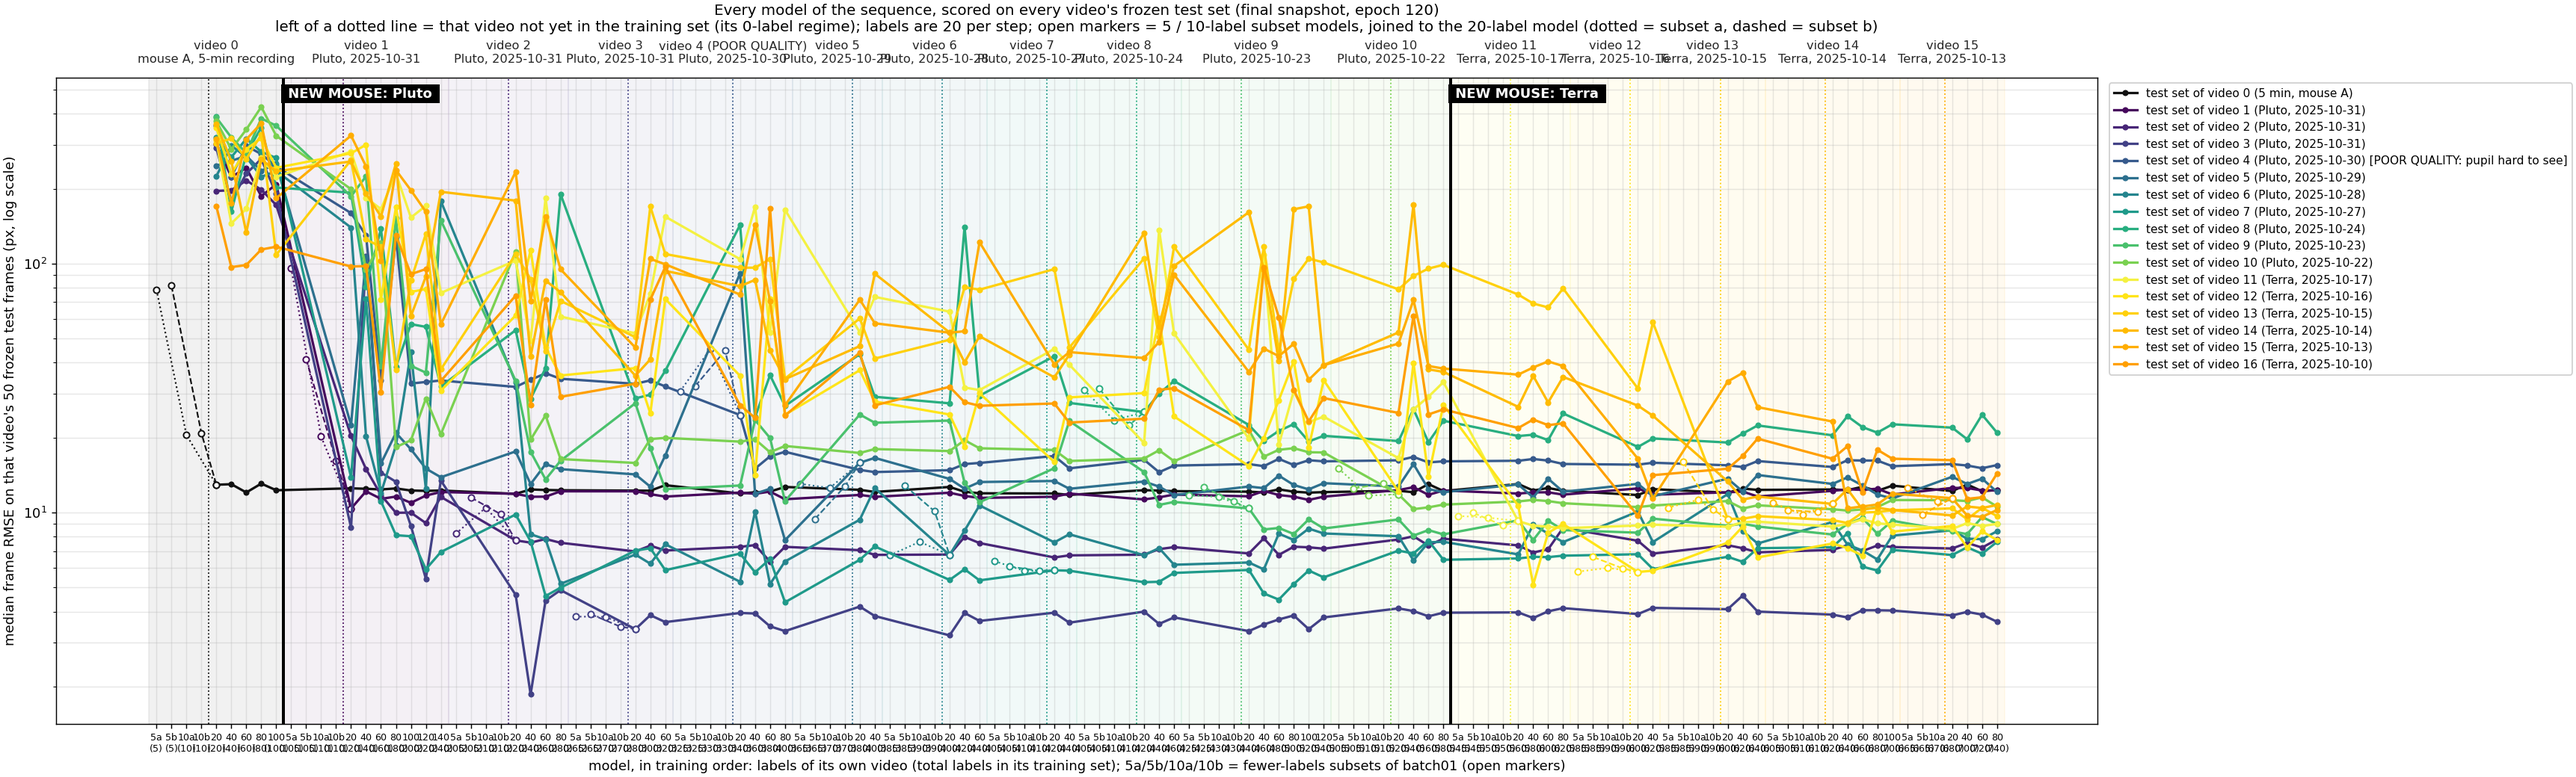
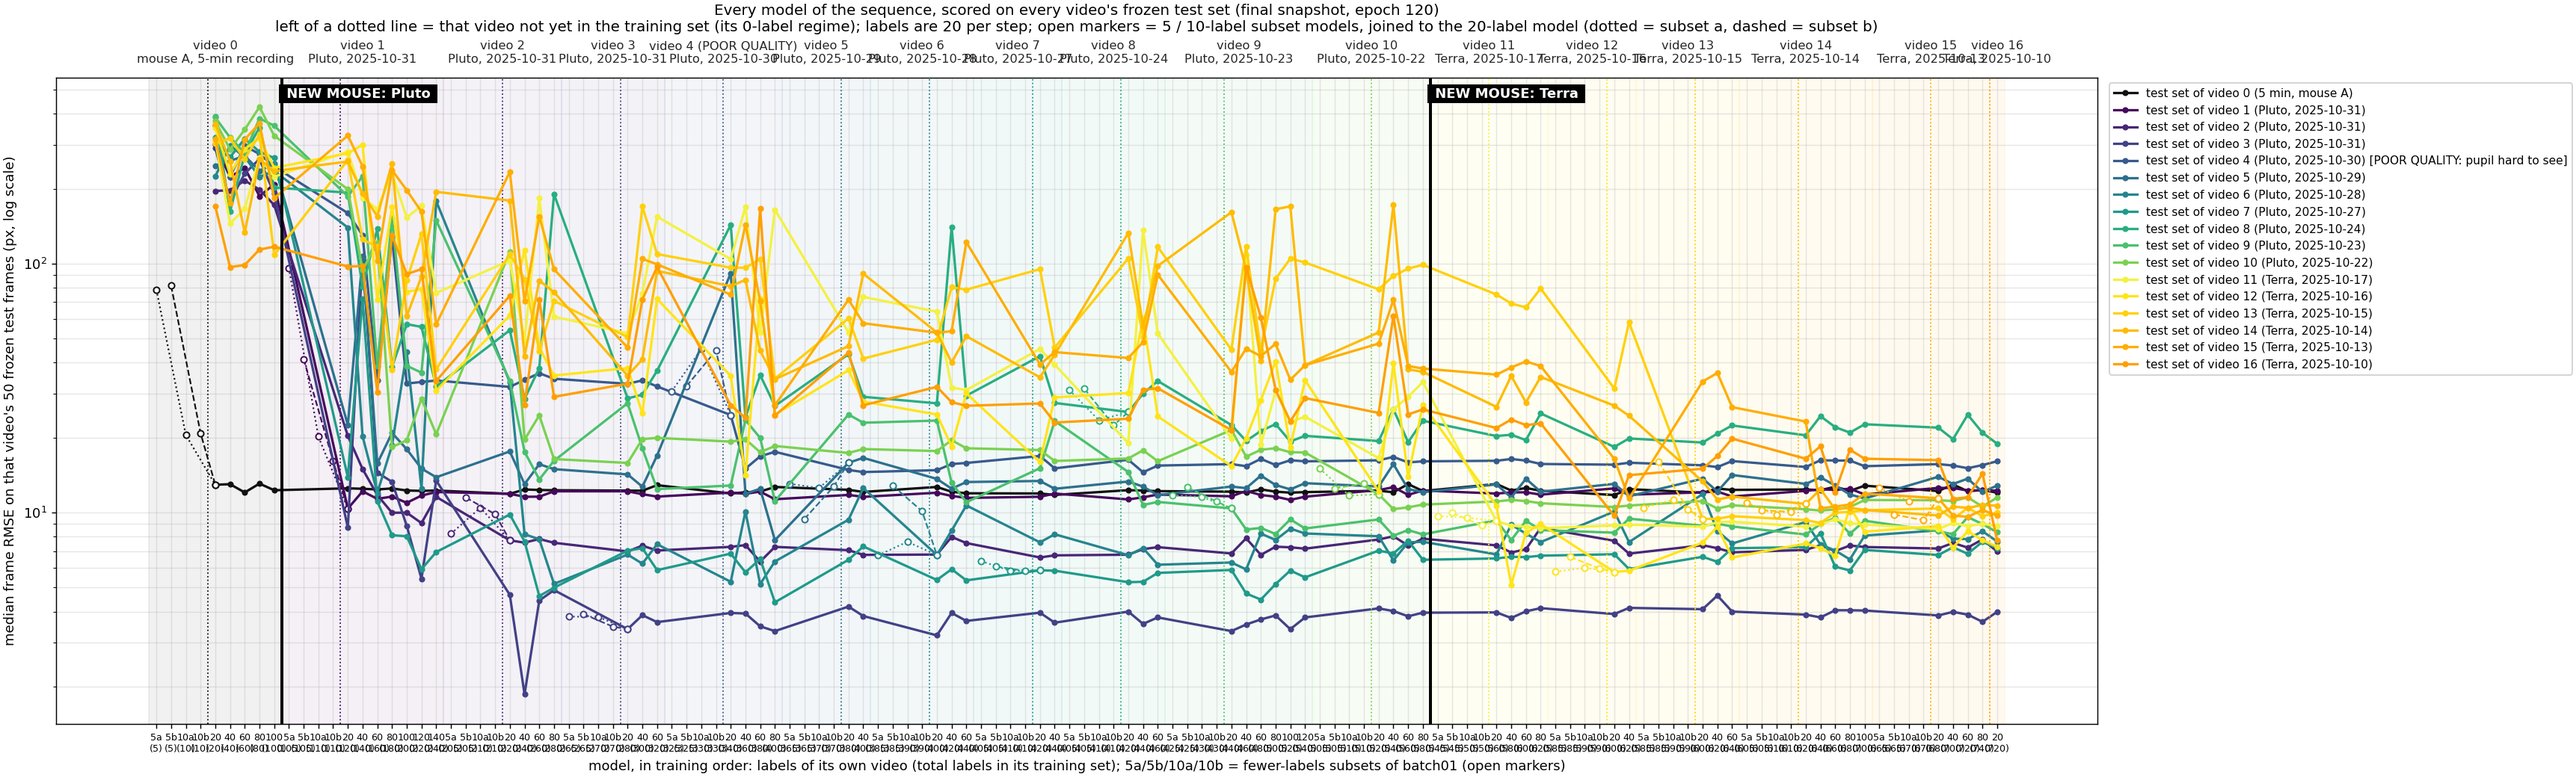
Video 16 step 1 selection recorded (464 of 57158 flagged, batch 2 sheet); cross-eval of model 1711

Changed region(s): [[0.0621, 0.0308, 0.8075, 0.8923], [0.0621, 0.9231, 0.7765, 0.9846], [0.3417, 0.8, 0.3727, 0.8308]]

diff --git a/README.md b/README.md
@@ -29,7 +29,7 @@ per-frame predictions stay local; git carries code, documentation and audited ag
 | Finished | **video 13** (Terra, 2025-10-15, third video of mouse C): test50 / val20 / batch01 pre-labeled with the video-11 40-label model (1212) and corrected by the labeler (test50: 287 of 400 points moved), test set frozen; 0 labels (model 1212) = 69.13 px (56% of frames > 50 px: the model that fitted video 12 does not fit this day), 20 labels = 9.43 px, 40 labels = 9.44 px, 60 labels = 9.67 px (0% of frames > 50 px from 20 labels on): no step improves on 20 labels, the plateau rule fired at 60; **plateau at 20 labels, 9.43 px** (user decision 2026-10-06), tag `v0.9.15-video13-plateau`; batch01 (20 labels) carried, 600 labels go into video 14. Fewer-labels: 5 labels 10.46 / 16.03 px, 10 labels 11.24 / 10.29 px (first-batch size only, no jump selection afterwards; both above the 20-label 9.43 px). |
 | Finished | **video 14** (Terra, 2025-10-14, fourth video of mouse C): test50 / val20 / batch01 pre-labeled with the video-13 20-label model (1411) and corrected by the labeler (test50: 149 of 400 points moved), test set frozen; 0 labels (model 1411) = 13.33 px (16% of frames > 50 px), 20 labels = 10.83 px, 40 labels = 12.41 px, 60 labels = 10.30 px, 80 labels = 10.45 px, 100 labels = 10.24 px (2% of frames > 50 px from 20 labels on); 80 and 100 stay within 3% of 10.30, the plateau rule fired at 100; **plateau at 60 labels, 10.30 px** (user decision 2026-10-07), tag `v0.9.16-video14-plateau`; batches 1-3 (60 labels) carried, 660 labels go into video 15; batch 6 was selected but not labeled. Fewer-labels: 5 labels 10.93 / 10.22 px, 10 labels 9.82 / 10.06 px (first-batch size only, no jump selection afterwards; medians within 10% of the 20-label 10.83 px, subset 5b with 14% of frames > 50 px). |
 | Finished | **video 15** (Terra, 2025-10-13, fifth video of mouse C): frames extracted model-free; test50 pre-labeled with the video-14 20-label model (1511) before video 14's plateau was known (recorded as a deviation), val20 / batch01 with the plateau model 1513; 0 labels (model 1513) = 10.57 px, 20 labels = 11.42 px, 40 labels = 9.73 px, 60 labels = 9.61 px, 80 labels = 10.24 px (0-2% of frames > 50 px); 60 within 3% of 9.73 and 80 worse, the plateau rule fired at 80; **plateau at 40 labels, 9.73 px** (user decision 2026-10-08), tag `v0.9.17-video15-plateau`; batches 1-2 (40 labels) carried, 700 labels go into video 16; batch 5 selected but not labeled. Fewer-labels: 5 labels 12.55 / 9.82 px, 10 labels 11.09 / 9.31 px (first-batch size only, no jump selection afterwards; three of the four subsets below the 20-label 11.42 px). |
-| In progress | **video 16** (Terra, 2025-10-10): test50 / val20 / batch01 extracted on 2026-10-08 (model-free) and pre-labeled with the video-15 plateau model (1612, 40 labels) and corrected by the labeler on 2026-10-08 (test50: 136 of 400 points moved), test set frozen; 0 labels (model 1612) = 11.35 px (p90 23.1, 0% of frames > 50 px, 76% of keypoints with confidence >= 0.6); 20 labels (shuffle 1711) = 7.72 px (p90 11.5, 2% of frames > 50 px, 96% confidence; 32% better than the 0-label number); batch 2 being selected (2026-10-08 23:45). Training set of every step = 700 carried labels of videos 0-15 + this video's labels; shuffles 1711, 1712, ... |
+| In progress | **video 16** (Terra, 2025-10-10): test50 / val20 / batch01 extracted on 2026-10-08 (model-free) and pre-labeled with the video-15 plateau model (1612, 40 labels) and corrected by the labeler on 2026-10-08 (test50: 136 of 400 points moved), test set frozen; 0 labels (model 1612) = 11.35 px (p90 23.1, 0% of frames > 50 px, 76% of keypoints with confidence >= 0.6); 20 labels (shuffle 1711) = 7.72 px (p90 11.5, 2% of frames > 50 px, 96% confidence; 32% better than the 0-label number); batch 2 selected (only 464 of 57158 pool frames flagged by the jump rule, 0.8%: the 20-label model tracks this day smoothly) and being labeled (2026-10-09 01:05). Training set of every step = 700 carried labels of videos 0-15 + this video's labels; shuffles 1711, 1712, ... |
 | Analysis (2026-10-04) | blink and pupil area on all 12 finished videos (`v2_new_pupil_top_video_scaling/results/blink_and_area/`): four-point area median error 6.6% (three-point 8.3%); closed eye best detected by the mean confidence of the four pupil points (27 of 28 closed frames, 4.1% of open frames flagged; the earlier rule flags 55.7%); area traces still contain tracking jumps not covered by the closure rule. Error and confidence per keypoint (`.../results/keypoint_confidence_error/`): pupil top is the least accurate point (10.9 px median) |
 | Next | Terra units 17-18, one recording day each, newest first |
 

diff --git a/v2_new_pupil_top_video_scaling/16_20251010_Terra_spont_1/results/README.md b/v2_new_pupil_top_video_scaling/16_20251010_Terra_spont_1/results/README.md
@@ -12,7 +12,7 @@ videos 7 and 12 contributed none; 700 in total) + this video's labels; shuffles 
 | labels of this video | median | p90 | frames > 50 px | keypoints conf >= 0.6 | pool frames flagged by the jump rule |
 |---|---|---|---|---|---|
 | 0 (video-15 40-label model 1612, applied unchanged) | 11.35 px | 23.1 | 0% | 76% | – |
-| 20 (shuffle 1711) | 7.72 px | 11.5 | 2% | 96% | pending |
+| 20 (shuffle 1711) | 7.72 px | 11.5 | 2% | 96% | 464 of 57158 (0.8%) |
 
 The other Terra models give 9.7-14.1 px on this test set (the video-12 20-label model 1311 is the best at 9.70 px, the
 video-15 60-label model 11.52, the video-14 plateau model 12.08; `../results/cross_video_matrix.csv`).
